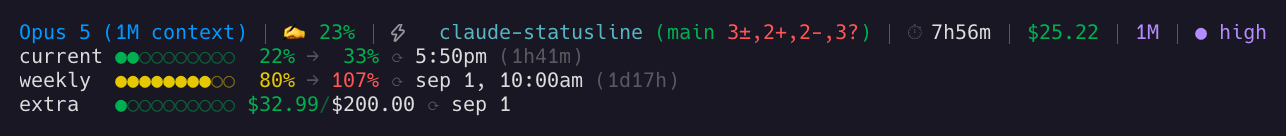
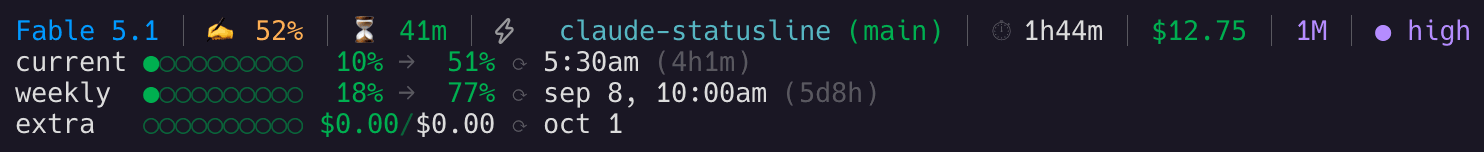
docs: retake the screenshot with the prompt-cache segment and re-key the README
The demo now shows a Fable 5.1 session with the ⏳ countdown between the
context percentage and the directory, a clean tree, and both rate windows
with their projections. Every "In the shot" cell is updated to the values
actually visible; segments absent from this shot keep their marker.

diff --git a/README.md b/README.md
@@ -15,16 +15,16 @@ Configure your Claude Code statusline to show limits, directory and git info
 
 | In the shot | Meaning | Origin |
 |---|---|---|
-| `Opus 5 (1M context)` | Model display name | upstream |
-| `✍ 23%` | Context window used. Green below 50%, orange from 50, yellow from 70, red from 90 | upstream |
-| `⏳ 47m` *(not in this shot)* | Prompt cache: time left before the cached prefix expires and the next turn has to rewrite it. Green, yellow under 15 minutes, red under 5. Read from `prompt_cache.expires_at`; the TTL (`5m` or `1h`) is whatever the last request used | **fork** |
+| `Fable 5.1` | Model display name | upstream |
+| `✍ 52%` | Context window used. Green below 50%, orange from 50 — as here — yellow from 70, red from 90 | upstream |
+| `⏳ 41m` | Prompt cache: time left before the cached prefix expires and the next turn has to rewrite it. Green, yellow under 15 minutes, red under 5. Read from `prompt_cache.expires_at`; the TTL (`5m` or `1h`) is whatever the last request used | **fork** |
 | `⌛ ~85k` *(not in this shot)* | Prompt cache is cold: the next request rewrites about this many tokens (`recache_tokens_if_cold`). The number is dropped when Claude Code already expects a different prefix, e.g. right after a compaction | **fork** |
 | `⚠ 2` *(not in this shot)* | Unexpected cache misses this session (`prompt_cache.misses`) — the prefix broke mid-session, usually because the tool set, system prompt, model or effort changed. Shown after either cache state, only when non-zero | **fork** |
 | `⚡` | Session runs with `--dangerously-skip-permissions`. The bare bolt sits just before the directory — not to be confused with the `⚡ fast` badge further right | upstream |
 | `claude-statusline` | Working directory | upstream |
-| `(main 3±,2+,2-,3?)` | Branch, then working-tree counts — `±` modified/renamed/copied/unmerged/typechange, `+` added, `-` deleted, `?` untracked. Kinds with nothing in them are dropped, so a clean tree shows the branch alone | **fork** |
-| `⏱ 7h56m` | Session wall clock from `cost.total_duration_ms` — measured time, so it survives resumes. Renders `Ns` under a minute and `Nm` under an hour | **fork** |
-| `$25.22` | Session cost from `cost.total_cost_usd`. Hidden on Z.ai-backed sessions, where it would only be an Anthropic-pricing estimate | **fork** |
+| `(main)` | Branch, then working-tree counts — `±` modified/renamed/copied/unmerged/typechange, `+` added, `-` deleted, `?` untracked, e.g. `(main 3±,2+,2-,3?)`. Kinds with nothing in them are dropped, which is why this clean tree shows the branch alone | **fork** |
+| `⏱ 1h44m` | Session wall clock from `cost.total_duration_ms` — measured time, so it survives resumes. Renders `Ns` under a minute and `Nm` under an hour | **fork** |
+| `$12.75` | Session cost from `cost.total_cost_usd`. Hidden on Z.ai-backed sessions, where it would only be an Anthropic-pricing estimate | **fork** |
 | `⚡ fast` *(not in this shot)* | Fast mode is on (`fast_mode`) — the labelled bolt, distinct from the skip-permissions one | **fork** |
 | `🧠 off` *(not in this shot)* | Thinking is disabled (`thinking.enabled == false`) | **fork** |
 | `1M` | Context exceeds the 200k default (`exceeds_200k_tokens`) | **fork** |
@@ -35,11 +35,11 @@ Configure your Claude Code statusline to show limits, directory and git info
 | In the shot | Meaning | Origin |
 |---|---|---|
 | `current` / `weekly` | The 5-hour and weekly windows | upstream |
-| `●●○○○○○○○○  22%` | Ten-cell bar and utilization, on the same color ramp as the context percentage — hence green at 22% and yellow at the weekly 80% | upstream |
-| `→  33%` / `→ 107%` | Where the window ends up if the pace so far holds. Green below 80, orange from 80, yellow from 90, red from 100 — which is why the weekly projection is red here | **fork** |
-| `⟳ 5:50pm` / `⟳ sep 1, 10:00am` | When the window resets | upstream |
-| `(1h41m)` / `(1d17h)` | Time left until that reset — `NdNh` past a day, `NhNm` past an hour, `Nm` below | **fork** |
-| `extra   ●○○○○○○○○○ $32.99/$200.00 ⟳ sep 1` | Flex-rate usage and its monthly limit, shown only while `extra_usage` is enabled on the account | upstream |
+| `●○○○○○○○○○  10%` / `18%` | Ten-cell bar and utilization, on the same color ramp as the context percentage — green at these levels, yellow from 70, red from 90 | upstream |
+| `→  51%` / `→  77%` | Where the window ends up if the pace so far holds. Green below 80, orange from 80, yellow from 90, red from 100 | **fork** |
+| `⟳ 5:30am` / `⟳ sep 8, 10:00am` | When the window resets | upstream |
+| `(4h1m)` / `(5d8h)` | Time left until that reset — `NdNh` past a day, `NhNm` past an hour, `Nm` below | **fork** |
+| `extra   ○○○○○○○○○○ $0.00/$0.00 ⟳ oct 1` | Flex-rate usage and its monthly limit, shown only while `extra_usage` is enabled on the account — here enabled with nothing spent yet | upstream |
 
 On a Z.ai-backed session each bar also carries the raw credit count
 (`5.4k/12k`) between the projection and the reset time — **fork**.
